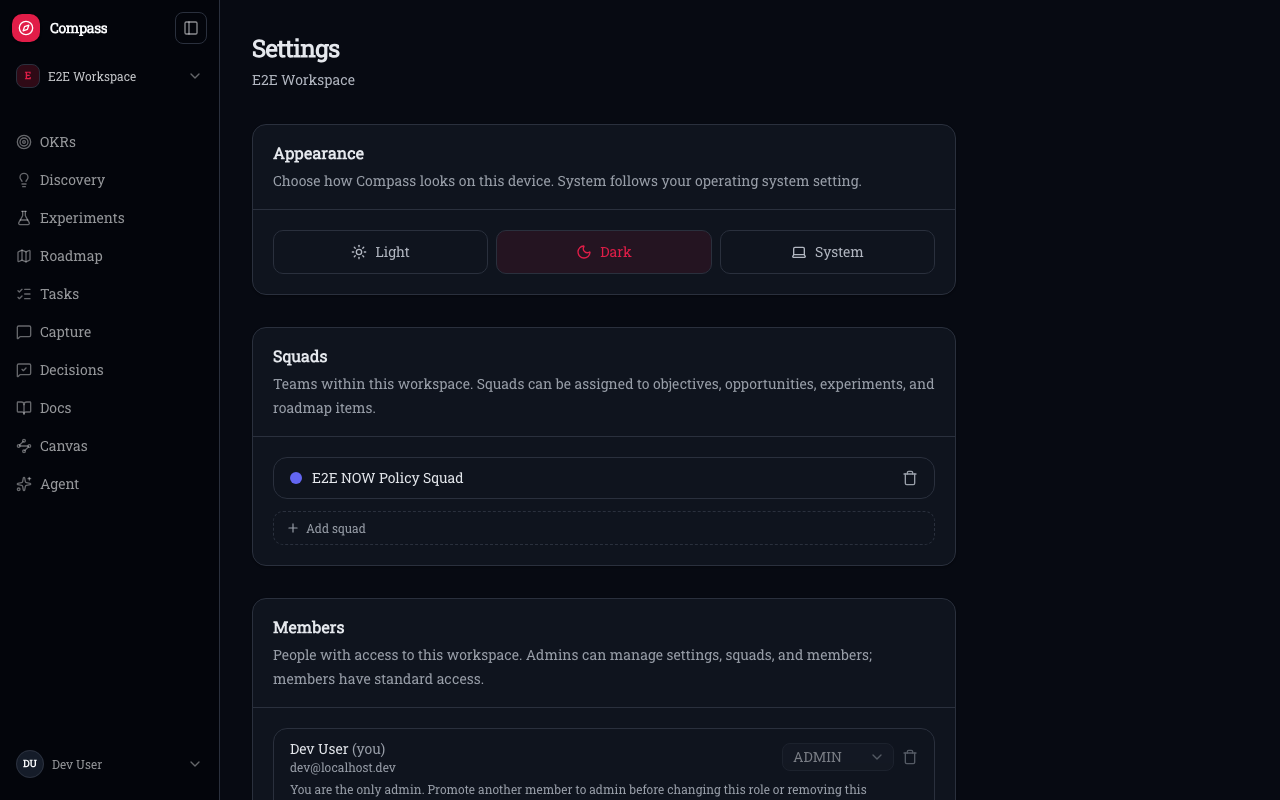
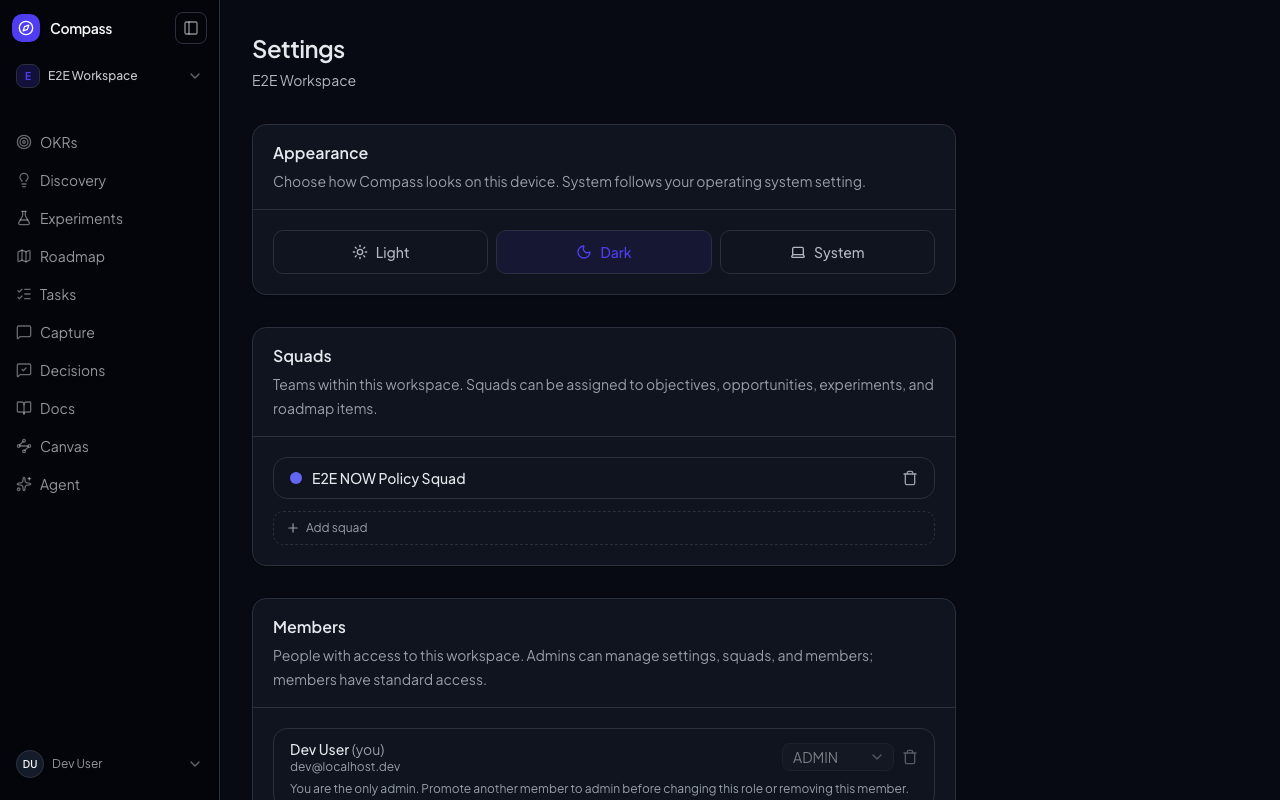
test: reconcile release journeys and refresh dark appearance captures

diff --git a/e2e/functional/specs/now-decision-gate.spec.ts b/e2e/functional/specs/now-decision-gate.spec.ts
@@ -1,16 +1,15 @@
 /**
- * Native NOW decision gate functional spec.
+ * Roadmap decision functional spec.
  *
  * The fixture supplies a NEXT candidate plus independently verifiable,
  * already-applied Building-investment authority and an active capacity plan.
- * This test starts at the user boundary: request an immutable review, take the
- * human decision, and verify admission provenance and its durable receipt.
+ * Decisions now record a human call without automatically moving linked work.
  */
 import { test, expect } from "../fixtures/index";
 import { E2E_NOW_CANDIDATE_TITLE } from "../fixtures/seed-e2e";
 
-test.describe("Native NOW decision gate", () => {
-  test("admin requests, decides, and applies a NOW commitment with durable provenance", async ({ page, base }) => {
+test.describe("Roadmap decision and NOW commitment", () => {
+  test("admin records a linked decision, then explicitly moves the candidate to NOW", async ({ page, base }) => {
     // Arrange: the policy-backed candidate begins in NEXT.
     await page.goto(`${base}/roadmap`);
     await page.waitForLoadState("networkidle");
@@ -25,11 +24,18 @@ test.describe("Native NOW decision gate", () => {
     // Act: request the real server-side review, then take the admin decision.
     const candidatePanel = page.locator('[data-slot="sheet-content"]');
     await candidatePanel
-      .getByRole("button", { name: "Request NOW commitment" })
+      .getByRole("link", { name: "Request decision", exact: true })
       .click();
+    await expect(page).toHaveURL(/\/decisions\/new\?subjectType=ROADMAP_ITEM/);
+    await expect(page.getByRole("combobox", { name: "Link to", exact: true })).toHaveValue("ROADMAP_ITEM");
+    await expect(page.getByRole("combobox", { name: "Item", exact: true }).locator("option:checked")).toHaveText(E2E_NOW_CANDIDATE_TITLE);
+    const question = `Commit ${E2E_NOW_CANDIDATE_TITLE} to NOW?`;
+    await page.getByLabel("Decision question").fill(question);
+    await page.getByRole("textbox", { name: /^Context/ }).fill("Capacity is available; record the decision before scheduling delivery.");
+    await page.getByRole("button", { name: "Request decision", exact: true }).click();
     await expect(page).toHaveURL(/\/reviews\/[0-9a-f-]{36}$/);
     await expect(
-      page.getByRole("heading", { name: E2E_NOW_CANDIDATE_TITLE })
+      page.getByRole("heading", { name: question })
     ).toBeVisible();
     const qaScreenshotDir = process.env.NOW_GATE_QA_SCREENSHOT_DIR;
     if (qaScreenshotDir) {
@@ -39,29 +45,25 @@ test.describe("Native NOW decision gate", () => {
       await page.screenshot({ path: `${qaScreenshotDir}/mobile.png`, fullPage: true });
       await page.setViewportSize({ width: 1280, height: 800 });
     }
-    await page.getByRole("button", { name: "Commit to NOW" }).click();
+    await page.getByRole("button", { name: "Approve", exact: true }).click();
     await expect(
-      page.getByText(/Decision recorded:.*Commit to NOW/)
+      page.getByText(/Decision recorded:.*Approve/)
     ).toBeVisible({ timeout: 15_000 });
 
-    // Assert: the guarded continuation moved the item and left navigable
-    // decision provenance plus an APPLIED, durable application receipt.
+    // Generic approval records the decision without silently moving the item.
     await page.goto(`${base}/roadmap`);
     await page.waitForLoadState("networkidle");
+    await expect(candidate).toBeVisible({ timeout: 10_000 });
+    await candidate.click();
+    await candidatePanel.getByRole("combobox").first().click();
+    await page.getByRole("option", { name: "Now", exact: true }).click();
+    await expect(candidatePanel.getByRole("combobox").first()).toContainText("Now");
+    await page.goto(`${base}/roadmap`);
     const nowColumn = page.locator("#roadmap-column-NOW");
     const admitted = nowColumn.getByRole("button", {
       name: E2E_NOW_CANDIDATE_TITLE,
       exact: true,
     });
     await expect(admitted).toBeVisible({ timeout: 10_000 });
-    await admitted.click();
-    const admittedPanel = page.locator('[data-slot="sheet-content"]');
-    await expect(admittedPanel.getByText(/native decision provenance/i)).toBeVisible();
-    const decisionLink = admittedPanel.getByRole("link", { name: /Decision record:/ });
-    await expect(decisionLink).toBeVisible();
-    await expect(decisionLink).toHaveAttribute("href", /\/reviews\/[0-9a-f-]{36}$/);
-    await expect(
-      admittedPanel.getByText(/Application receipt:.*\(APPLIED\)/)
-    ).toBeVisible();
   });
 });

diff --git a/e2e/functional/specs/workspace-theme-responsive.spec.ts b/e2e/functional/specs/workspace-theme-responsive.spec.ts
@@ -30,7 +30,13 @@ test.describe("Workspace appearance", () => {
       if (localStorage.getItem(storageKey) === null) {
         localStorage.setItem(storageKey, "dark");
       }
-      requestAnimationFrame(() => {
+      const captureFirstWorkspaceFrame = () => {
+        // Streaming can paint an empty document before the authenticated layout
+        // arrives. Check the first frame with workspace content, not that blank.
+        if (!document.querySelector(".workspace-theme-scope")) {
+          requestAnimationFrame(captureFirstWorkspaceFrame);
+          return;
+        }
         (
           window as typeof window & {
             __firstFrameThemeSnapshot?: FirstFrameTheme;
@@ -40,14 +46,15 @@ test.describe("Workspace appearance", () => {
           dataTheme: document.documentElement.dataset.theme,
           colorScheme: document.documentElement.style.colorScheme,
         };
-      });
+      };
+      requestAnimationFrame(captureFirstWorkspaceFrame);
     }, { storageKey: THEME_STORAGE_KEY });
 
     await page.goto(`${base}/settings`);
     await expect(page.getByRole("heading", { name: "Settings" })).toBeVisible();
 
     // The server-rendered inline initializer must apply the stored theme before
-    // the first animation frame, rather than waiting for React hydration.
+    // the first workspace animation frame, rather than waiting for hydration.
     await expect
       .poll(() =>
         page.evaluate(
@@ -165,6 +172,7 @@ test.describe("Workspace appearance", () => {
       // supported workspace width.
       const themeButtons = page.getByRole("group", { name: "Color theme" }).getByRole("button");
       await expect(themeButtons).toHaveCount(3);
+      await expect(page.getByRole("button", { name: "Dark", exact: true })).toHaveAttribute("aria-pressed", "true");
       if (viewport.mobileNavigation) {
         for (const button of await themeButtons.all()) {
           const box = await button.boundingBox();

diff --git a/e2e/functional/specs/feedback-bug-roadmap.spec.ts b/e2e/functional/specs/feedback-bug-roadmap.spec.ts
@@ -77,8 +77,10 @@ test.describe("Feedback Bug → Roadmap", () => {
       );
 
       // Filter to Bugs. This is a server round trip now, not local state.
-      await page.getByRole("button", { name: "Bugs" }).click();
+      await page.getByRole("button", { name: "Filters", exact: true }).click();
+      await page.getByRole("menuitemradio", { name: "Bugs", exact: true }).click();
       await expect(page).toHaveURL(/type=BUG/);
+      await page.keyboard.press("Escape");
 
       const row = page.getByTestId("grid-row").filter({ hasText: bugTitle });
       await expect(row).toHaveCount(1);
